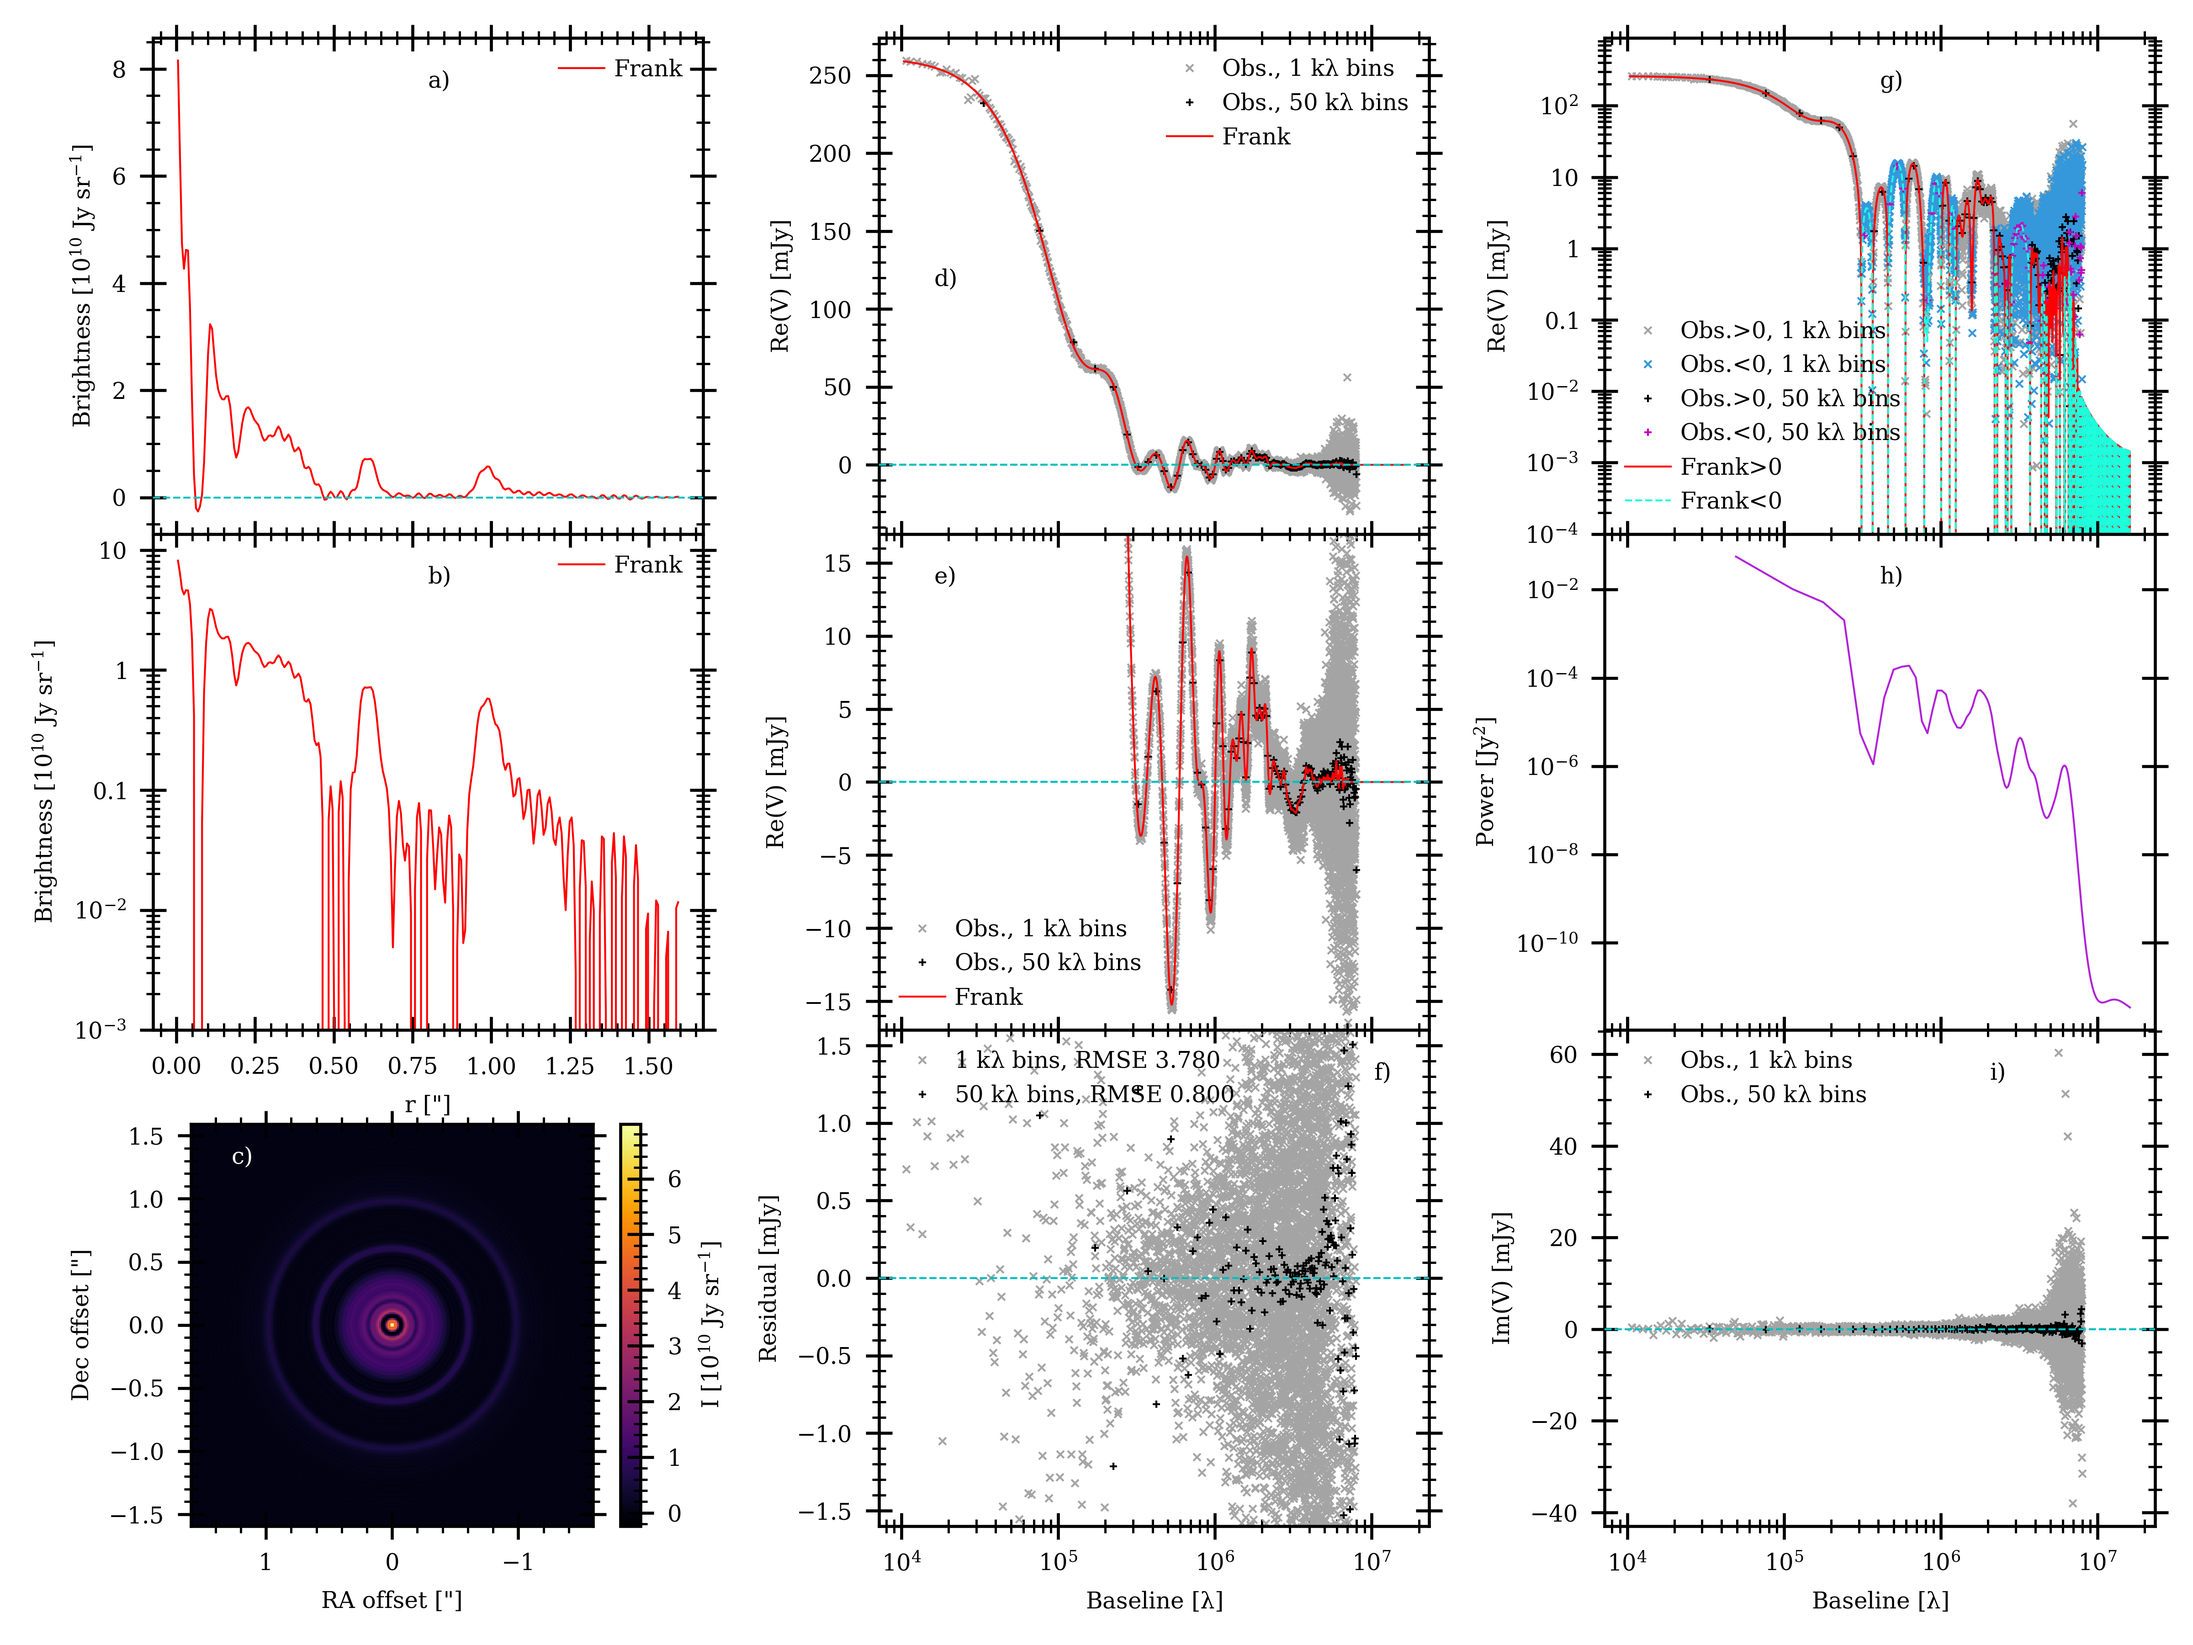
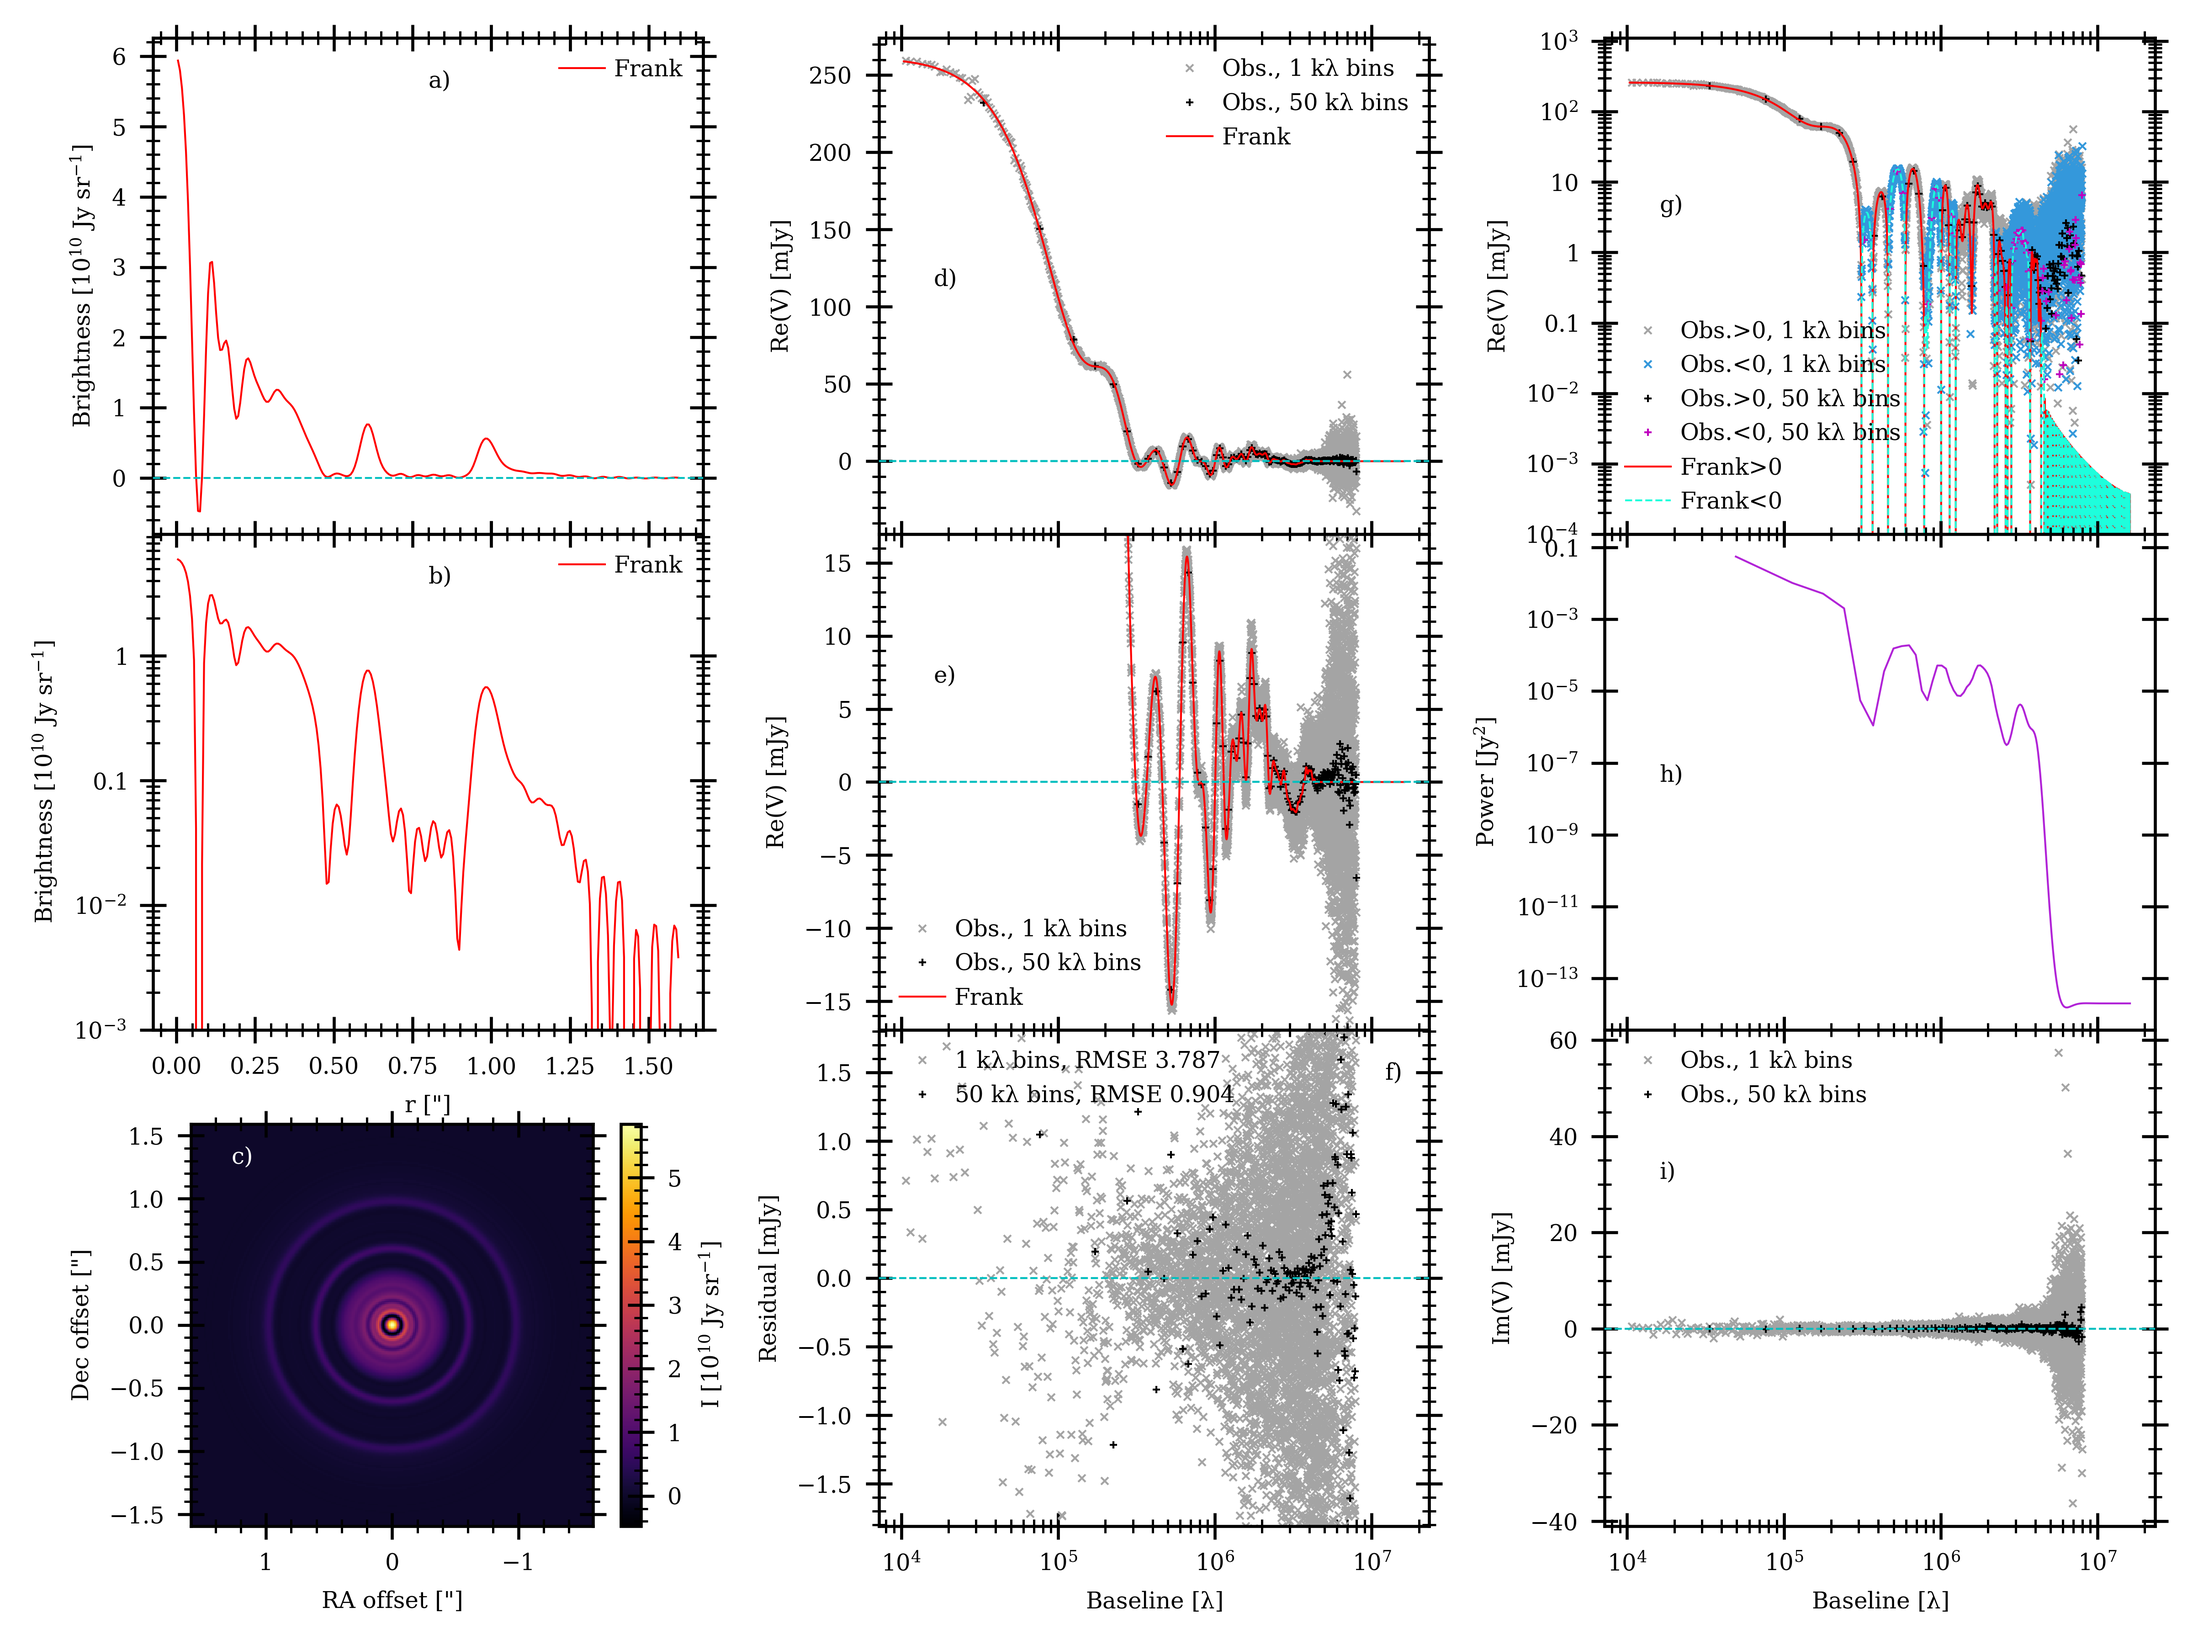
update plots to make quickstart; update quickstart; rename tutorials

diff --git a/frank/make_figs.py b/frank/make_figs.py
@@ -129,6 +129,18 @@ def make_full_fig(u, v, vis, weights, sol, bin_widths, dist=None,
     ax7 = fig.add_subplot(gs[5])
     ax8 = fig.add_subplot(gs[8])
 
+    ax0.text(.5, .9, 'a)', transform=ax0.transAxes)
+    ax1.text(.5, .9, 'b)', transform=ax1.transAxes)
+    ax2.text(.1, .9, 'c)', c='w', transform=ax2.transAxes)
+
+    ax3.text(.1, .5, 'd)', transform=ax3.transAxes)
+    ax4.text(.1, .7, 'e)', transform=ax4.transAxes)
+    ax5.text(.92, .9, 'f)', transform=ax5.transAxes)
+
+    ax6.text(.1, .65, 'g)', transform=ax6.transAxes)
+    ax7.text(.1, .5, 'h)', transform=ax7.transAxes)
+    ax8.text(.1, .7, 'i)', transform=ax8.transAxes)
+
     axes = [ax0, ax1, ax2, ax3, ax4, ax5, ax6, ax7, ax8]
 
     plot_brightness_profile(sol.r, sol.mean, ax0)
@@ -252,6 +264,12 @@ def make_quick_fig(u, v, vis, weights, sol, bin_widths, dist=None,
     ax2 = fig.add_subplot(gs[1])
     ax3 = fig.add_subplot(gs[3])
 
+    ax0.text(.5, .9, 'a)', transform=ax0.transAxes)
+    ax1.text(.5, .9, 'b)', transform=ax1.transAxes)
+
+    ax2.text(.5, .9, 'c)', transform=ax2.transAxes)
+    ax3.text(.92, .9, 'd)', transform=ax3.transAxes)
+
     axes = [ax0, ax1, ax2, ax3]
 
     plot_brightness_profile(sol.r, sol.mean, ax0)
@@ -348,6 +366,14 @@ def make_diag_fig(r, q, iteration_diagnostics, iter_plot_range=None,
     ax3 = fig.add_subplot(gs[3])
 
     ax4 = fig.add_subplot(gs2[4])
+
+    ax0.text(.92, .5, 'a)', transform=ax0.transAxes)
+    ax1.text(.92, .1, 'b)', transform=ax1.transAxes)
+
+    ax2.text(.05, .5, 'c)', transform=ax2.transAxes)
+    ax3.text(.92, .5, 'd)', transform=ax3.transAxes)
+
+    ax4.text(.92, .9, 'e)', transform=ax4.transAxes)
 
     axes = [ax0, ax1, ax2, ax3, ax4]
 

diff --git a/frank/fit.py b/frank/fit.py
@@ -488,7 +488,7 @@ def main(*args):
                                              model['plotting']['diag_plot']
                                              )
 
-    figs = output_results(u, v, vis, weights, sol, iteration_diagnostics,
+    figs, axes = output_results(u, v, vis, weights, sol, iteration_diagnostics,
                           model['plotting']['iter_plot_range'],
                           model['plotting']['bin_widths'],
                           model['input_output']['format'],
@@ -506,7 +506,7 @@ def main(*args):
 
     logging.info("IT'S ALIVE!!\n")
 
-    return figs
+    return figs, axes
 
 
 if __name__ == "__main__":

diff --git a/docs/quickstart.rst b/docs/quickstart.rst
@@ -41,7 +41,7 @@ If you want to change the default parameters, provide a custom parameter file wi
 
 The default parameter file is ``default_parameters.json``. You can get it
 `here <https://github.com/discsim/frank/blob/master/frank/default_parameters.json>`_,
-and it looks like this:
+and it looks like this,
 
 .. literalinclude:: ../frank/default_parameters.json
     :linenos:
@@ -82,15 +82,16 @@ AS 209 (`Andrews et al. 2018 <https://ui.adsabs.harvard.edu/abs/2018ApJ...869L..
 **e)** As in (d), zooming on the longer baselines. |br|
 **f)** Residuals between the binned data and the fit. The residuals' RMSE is given in the legend;
 note this is being increased by the residuals beyond the baseline at which the fit walks off the data. |br|
-**g)** As in (d), on a log scale. The positive and negative data and fit regions are distinguished since this is a log scale. |br|
+**g)** As in (d), on a log scale. The positive and negative data and fit regions are distinguished since this is a log scale.
+On this scale it is more apparent that frank walks off the visibilities as their binned noise begins to grow strongly at :math:`\approx 4\ {\rm M}\lambda`. |br|
 **h)** The fit's reconstructed power spectrum, the prior on the fitted brightness profile.
 To see how this the fit to this dataset is sensitive to the prior, check out `this notebook <tutorials/prior_sensitivity_and_uncertainty.ipynb>`_. |br|
 **i)** The (binned) imaginary component of the visibilities. frank only fits the real component, so if Im(V) is large,
-it could indicate xx asymmetry in the disc xx that frank will average over.
+it could indicate azimuthal asymmetry in the disc that frank will average over.
 
 Test a fit's convergence
 ########################
-Once the fit has been performed, it's important to check its convergence. If `diag_plot=True` in the parameter file, frank produces a diagnostic figure to assess this.  Using the fit from the above figure, the diagnostic plot looks like this.
+Once the fit has been performed, it's important to check its convergence. If `diag_plot=True` in the parameter file, frank produces a diagnostic figure to assess this.  Using the fit from the above figure, the diagnostic plot looks like this,
 
 .. figure:: plots/AS209_continuum_frank_fit_diag.png
    :align: left
@@ -111,7 +112,7 @@ So in this case the oscillations remaining at the end of the fit (:math:`\approx
 |br|
 **c)** The reconstructed power spectrum over all fit iterations.
 Our initial guess for the power spectrum, a power law with slope of -2, is apparent in the longest baselines for the first :math:`\approx 250` iterations,
-and then we continue iterating to suppress the high power placed at the data's noise-dominated, longest baselines. |br|
+and then we continue iterating to suppress the high power placed at the data's noisiest, longest baselines. |br|
 **d)** Sequential difference between the last 100 brightness profile iterations.
 Note the y-scale here is small compared to (b),
 and the largest variation is at the baseline where the fit walks off the visibilities. |br|
@@ -132,7 +133,7 @@ Modify the `fit.py` script
 ##########################
 We've run this example using `fit.py`; if you'd like to modify this file, you can get it `here <https://raw.githubusercontent.com/discsim/frank/master/frank/fit.py>`_.
 For an 'under the hood' look at what this script does, see `this tutorial <tutorials/using_frank_as_a_module.ipynb>`_.
-And if you'd like a more qualitative overview of the script (with sound), see `here <https://www.youtube.com/watch?v=xMxsLKQidY4&t=5>`_.
+If you'd like a video demonstration of the script (with sound), see `here <https://www.youtube.com/watch?v=xMxsLKQidY4&t=5>`_.
 
 Perform a fit using `frank` as a Python module
 -----------------------------------------------

diff --git a/docs/install.rst b/docs/install.rst
@@ -24,7 +24,7 @@ Clone the source repository from `GitHub <https://github.com/discsim/frank>`_,
 
     pip install git+https://github.com/discsim/frank.git
 
-(this is the same as `git clone https://github.com/discsim/frank.git && cd frank && pip install .`).
+(this is the same as `git clone https://github.com/discsim/frank.git && cd frank && pip install`).
 
 Test the install
 ################
